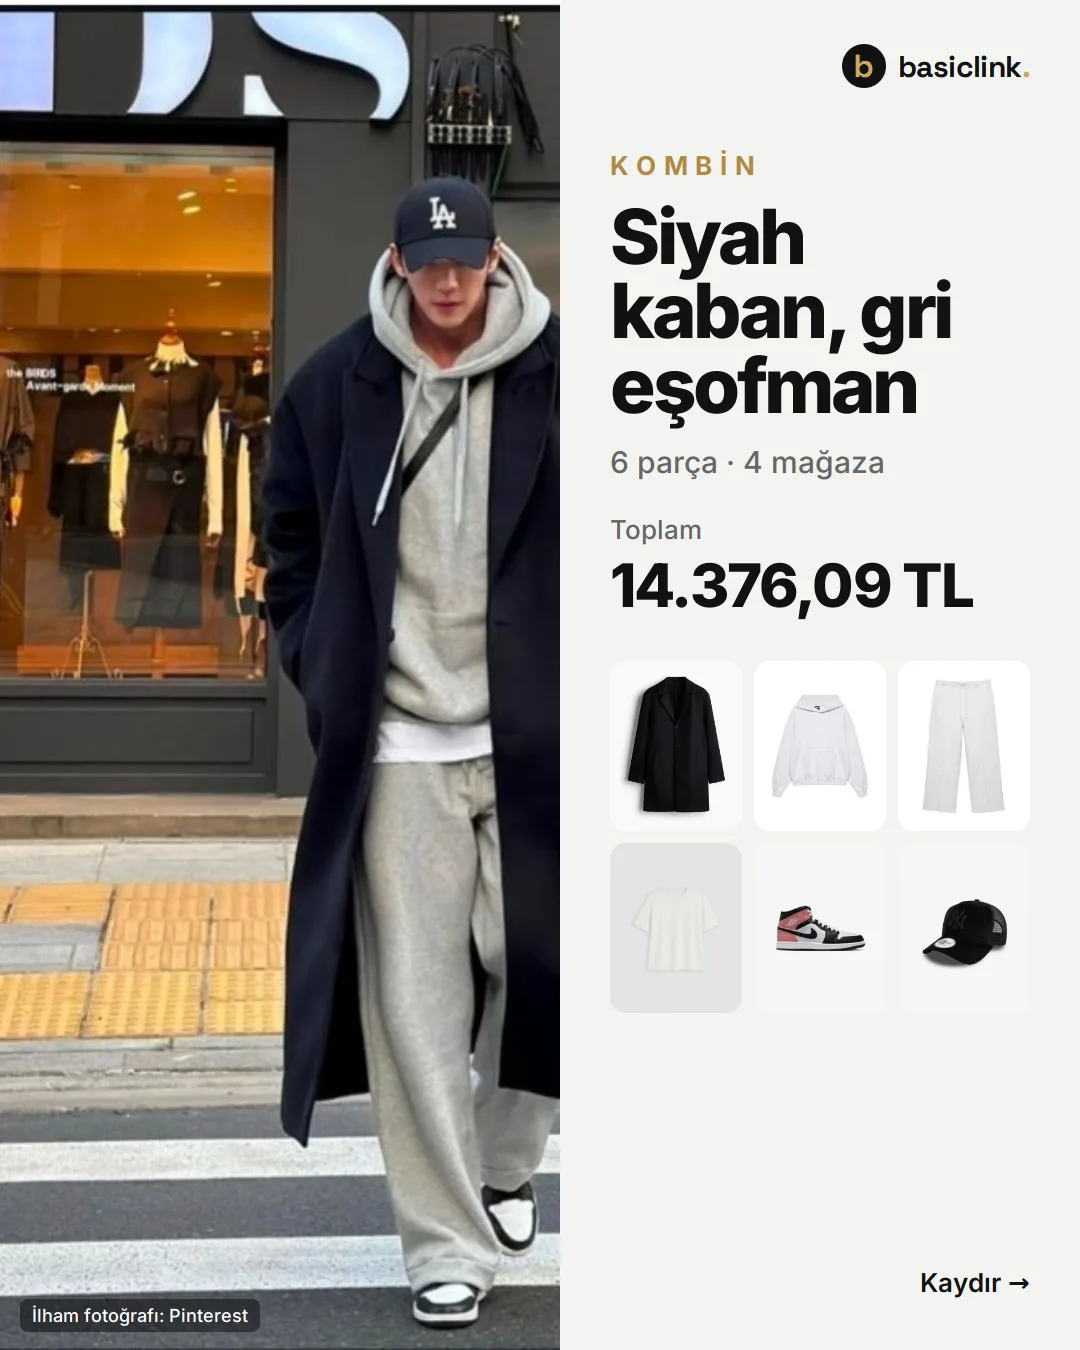
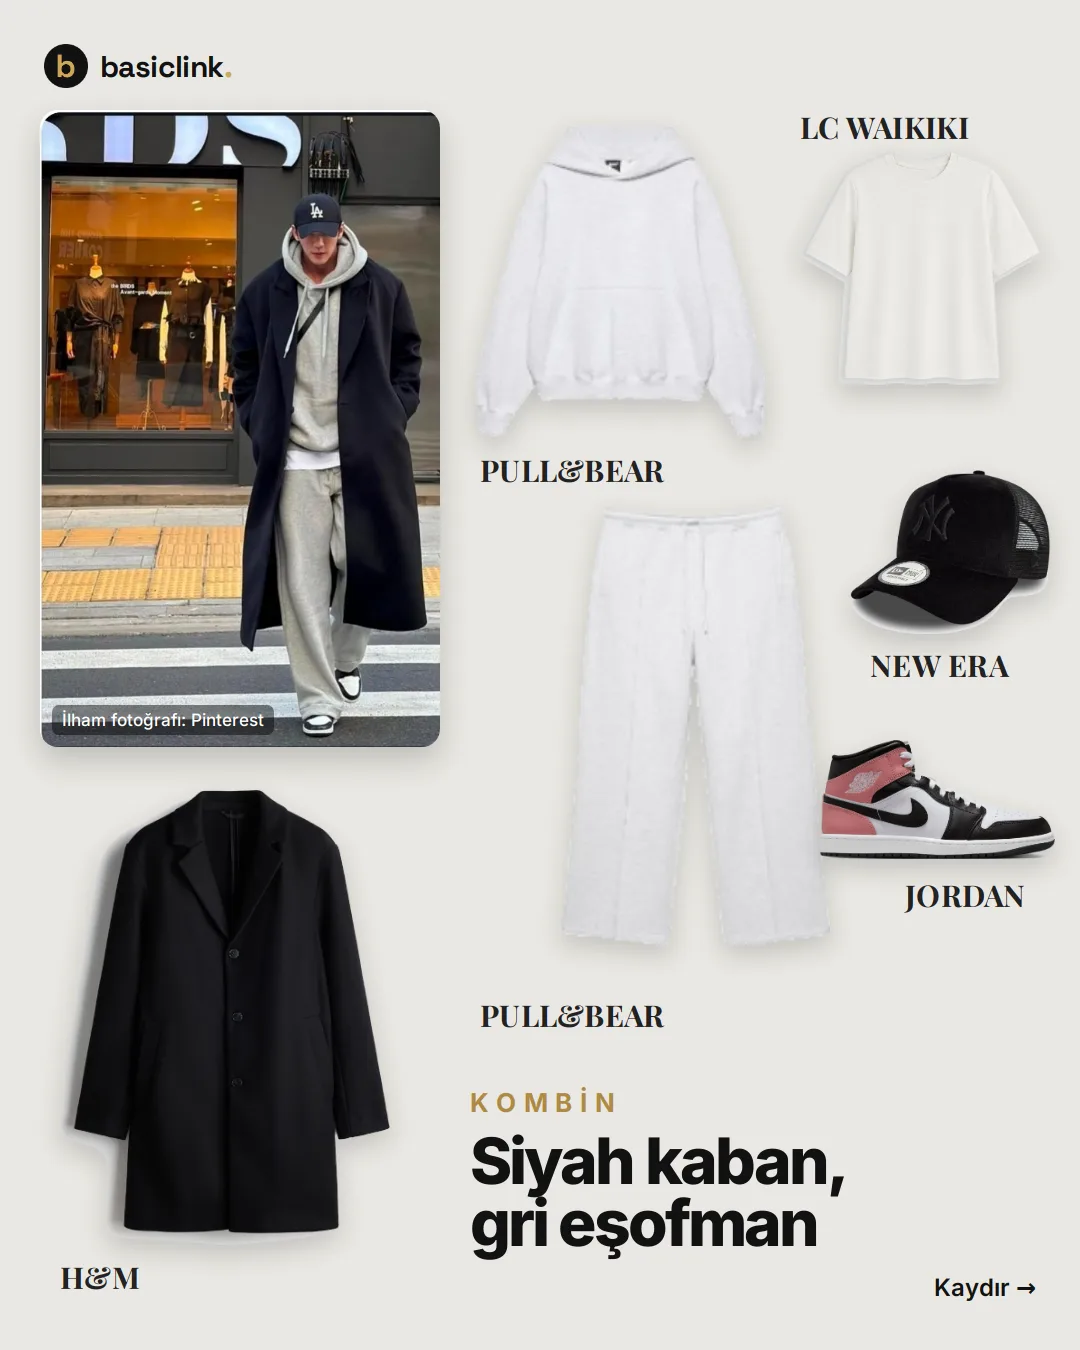
Outfit post: flat-lay cover with the reference look, no totals
kes.mjs cuts product photos out of plain studio backgrounds so the cover
can lay the pieces out with brand labels. Prices stay on the product
slides; the total slide is gone.

Claude-Session: https://claude.ai/code/session_01HdQWbhkBJ8b86f92CSrzw3

diff --git a/scripts/instagram/kombin.js b/scripts/instagram/kombin.js
@@ -12,31 +12,19 @@ const src = (d) => "file://" + path.join(kok, d);
 const lang = (s) => (/[çğıöşüİ]/i.test(s) ? "tr" : "en");
 const logo = "file://" + path.join(__dirname, "logo-b-yuvarlak.png");
 const U = veri.urunler;
-const toplam = Math.round(U.reduce((a, u) => a + u.fiyat, 0) * 100) / 100;
-const etiketToplam = Math.round(U.reduce((a, u) => a + (u.eskiFiyat || u.fiyat), 0) * 100) / 100;
 const saticilar = [...new Set(U.map((u) => u.satici))];
 const ust = `<div class="marka-ust"><img src="${logo}"><span>basiclink<i>.</i></span></div>`;
 const eski = (u) => u.eskiFiyat || u.fiyatNot ? `<span class="eski">${u.eskiFiyat ? `<s>${tl(u.eskiFiyat)}</s>` : ""}${u.eskiFiyat && u.fiyatNot ? " · " : ""}${u.fiyatNot ? k(u.fiyatNot) : ""}</span>` : "";
 const karo = (u, sinif = "") => `<div class="karo ${sinif}" style="background:${u.zemin}"><img src="${src(u.dosya)}"></div>`;
 
+// Cover: the reference look next to the pieces laid out flat, each labelled with its brand. No prices on the cover.
+// Every product carries "kesik" (a cut-out PNG from kes.mjs) and "kapak" {x, y, w, lx, ly}: its place and its label's place.
 const kapak = `<section class="slayt kapak">
-  <img class="ref" src="${src(veri.referans.dosya)}">
-  <div class="kapak-yazi">
-    ${ust}
-    <p class="kicker">${k(veri.ust)}</p>
-    <h1>${k(veri.baslik)}</h1>
-    <p class="alt">${U.length} parça · ${saticilar.length} mağaza</p>
-    <p class="toplam-k">Toplam<br><b>${tl(toplam)}</b></p>
-    <div class="mini">${U.map((u) => karo(u)).join("")}</div>
-    <p class="kaydir">Kaydır →</p>
-  </div>
-  <p class="kredi">İlham fotoğrafı: ${k(veri.referans.kaynak)}</p>
-</section>`;
-const izgara = `<section class="slayt izgara">
-  ${ust}
-  <h2>Parça parça</h2>
-  <div class="grid">${U.map((u) => `<div class="hucre">${karo(u)}<span class="m" lang="${lang(u.marka)}">${k(u.marka)}</span><span class="f">${tl(u.fiyat)}</span></div>`).join("")}</div>
-  <div class="toplam"><span>Kombinin toplamı</span><b>${tl(toplam)}</b>${etiketToplam > toplam ? `<s>${tl(etiketToplam)}</s>` : ""}</div>
+  <div class="marka-ust sol"><img src="${logo}"><span>basiclink<i>.</i></span></div>
+  <figure class="ref"><img src="${src(veri.referans.dosya)}"><figcaption>İlham fotoğrafı: ${k(veri.referans.kaynak)}</figcaption></figure>
+  ${U.map((u) => `<img class="parca" src="${src(u.kesik)}" style="left:${u.kapak.x}px;top:${u.kapak.y}px;width:${u.kapak.w}px">
+  <span class="ad-etiket" lang="${lang(u.marka)}" style="left:${u.kapak.lx}px;top:${u.kapak.ly}px">${k(u.marka)}</span>`).join("")}
+  <div class="kapak-yazi"><p class="kicker">${k(veri.ust)}</p><h1>${k(veri.baslik)}</h1><p class="kaydir">Kaydır →</p></div>
 </section>`;
 const parca = (xs, n) => xs.reduce((a, x, i) => (i % n ? a[a.length - 1].push(x) : a.push([x]), a), []);
 const gruplar = parca(U, 3);
@@ -58,14 +46,14 @@ const son = `<section class="slayt son">
 </section>`;
 const hikaye = `<section class="hikaye">
   ${ust.replace("marka-ust", "marka-ust sol")}
-  <div class="h-ust"><img class="h-ref" src="${src(veri.referans.dosya)}"><div><p class="kicker">${k(veri.ust)}</p><h1>${k(veri.baslik)}</h1><p class="toplam-k">Toplam<br><b>${tl(toplam)}</b></p></div></div>
+  <div class="h-ust"><img class="h-ref" src="${src(veri.referans.dosya)}"><div><p class="kicker">${k(veri.ust)}</p><h1>${k(veri.baslik)}</h1></div></div>
   <div class="h-liste">${U.map((u) => `<div class="h-satir">${karo(u)}<div class="etiket"><span class="m" lang="${lang(u.marka)}">${k(u.marka)}</span><span class="ad">${k(u.ad)}</span>${eski(u)}</div><span class="fiyat">${tl(u.fiyat)}</span></div>`).join("")}</div>
   <div class="yer">Tüm ürün linkleri · buraya dokun</div>
   <p class="h-not">Fiyatlar ${k(veri.tarih)} · ${k(saticilar.join(", "))}. Fiyat ve stok değişebilir. İlham fotoğrafı: ${k(veri.referans.kaynak)}.</p>
 </section>`;
 
 const html = `<!doctype html><html lang="tr"><head><meta charset="utf-8">
-<link href="https://fonts.googleapis.com/css2?family=Inter:wght@400;500;600;700;800&family=Space+Grotesk:wght@700&display=swap" rel="stylesheet">
+<link href="https://fonts.googleapis.com/css2?family=Inter:wght@400;500;600;700;800&family=Space+Grotesk:wght@700&family=Playfair+Display:wght@700&display=swap" rel="stylesheet">
 <style>
 *{box-sizing:border-box;margin:0}
 body{background:#888;font-family:Inter,sans-serif}
@@ -77,28 +65,16 @@ body{background:#888;font-family:Inter,sans-serif}
 .karo{border-radius:22px;display:flex;align-items:center;justify-content:center;overflow:hidden}
 .karo img{width:100%;height:100%;min-width:0;min-height:0;object-fit:contain}
 .kicker{font:700 26px Inter;letter-spacing:.3em;color:#B08A44}
-.kapak .ref{position:absolute;left:0;top:0;width:560px;height:1350px;object-fit:cover}
-.kapak-yazi{position:absolute;left:560px;top:0;right:0;bottom:0;padding:150px 50px 60px 50px}
-.kapak .marka-ust{right:50px}
-.kapak h1{font:800 76px/0.98 Inter;letter-spacing:-.045em;margin-top:18px;text-wrap:balance}
-.kapak .alt{font:500 30px Inter;color:#666;margin-top:22px}
-.toplam-k{font:500 26px Inter;color:#666;margin-top:34px}
-.toplam-k b{display:block;font:800 60px Inter;color:#111;letter-spacing:-.03em;margin-top:4px}
-.kapak .mini{display:grid;grid-template-columns:repeat(3,1fr);gap:12px;margin-top:40px}
-.kapak .mini .karo{height:170px;padding:10px;border-radius:16px}
-.kaydir{position:absolute;right:50px;bottom:52px;font:600 26px Inter}
-.kredi{position:absolute;left:20px;bottom:18px;font:500 18px Inter;color:#fff;background:rgba(0,0,0,.45);padding:6px 12px;border-radius:8px}
-.izgara{padding:120px 56px 56px}
-.izgara h2,.liste h2{font:800 64px Inter;letter-spacing:-.04em}
-.grid{display:grid;grid-template-columns:repeat(3,1fr);gap:22px 18px;margin-top:34px}
-.hucre{display:flex;flex-direction:column;gap:6px}
-.hucre .karo{height:380px;padding:18px}
-.hucre .m{font:600 19px Inter;letter-spacing:.18em;text-transform:uppercase;color:#888;margin-top:6px}
-.hucre .f{font:800 32px Inter;letter-spacing:-.02em}
-.toplam{position:absolute;left:56px;right:56px;bottom:56px;background:#111;color:#fff;border-radius:22px;padding:26px 34px;display:flex;align-items:baseline;gap:22px}
-.toplam span{font:600 30px Inter;flex:1}
-.toplam b{font:800 52px Inter;color:#CFA65A;letter-spacing:-.03em}
-.toplam s{font:500 26px Inter;color:#888}
+.kapak{background:#E9E7E2}
+.marka-ust.sol{left:44px;right:auto}
+.ref{position:absolute;left:40px;top:110px;width:400px;height:637px;margin:0;border-radius:18px;overflow:hidden;box-shadow:0 14px 30px rgba(0,0,0,.18)}
+.ref img{width:100%;height:100%;object-fit:cover}
+.ref figcaption{position:absolute;left:12px;bottom:12px;font:500 17px Inter;color:#fff;background:rgba(0,0,0,.45);padding:5px 10px;border-radius:7px}
+.parca{position:absolute;filter:drop-shadow(0 10px 12px rgba(0,0,0,.16))}
+.ad-etiket{position:absolute;font:700 30px/1 "Playfair Display";letter-spacing:.01em;color:#222;text-transform:uppercase}
+.kapak-yazi{position:absolute;left:470px;right:44px;bottom:48px}
+.kapak h1{font:800 64px/0.98 Inter;letter-spacing:-.045em;margin-top:12px;text-wrap:balance}
+.kaydir{font:600 24px Inter;margin-top:18px;text-align:right}
 .liste{padding:130px 56px 56px;display:flex;flex-direction:column;gap:28px}
 .sayfa{position:absolute;left:60px;top:52px;font:600 22px Inter;color:#888}
 .satir{display:flex;gap:34px;align-items:center;height:370px}
@@ -119,11 +95,11 @@ body{background:#888;font-family:Inter,sans-serif}
 .son .hikaye-not{font:700 40px Inter;color:#111;background:#CFA65A;border-radius:999px;padding:22px 48px;margin-bottom:34px}
 .son .not{font:400 24px Inter;color:#888;margin-top:60px;max-width:800px}
 .hikaye{width:1080px;height:1920px;position:relative;background:#F4F4F2;color:#111;padding:150px 56px 150px;display:flex;flex-direction:column}
-.marka-ust.sol{left:56px;right:auto;top:150px;position:relative;margin-bottom:24px}
+.hikaye .marka-ust.sol{left:56px;right:auto;top:150px;position:relative;margin-bottom:24px}
 .h-ust{display:flex;gap:34px;align-items:center}
 .h-ref{width:300px;height:420px;object-fit:cover;border-radius:22px;flex:none}
 .hikaye h1{font:800 68px/1 Inter;letter-spacing:-.04em;margin-top:12px;text-wrap:balance}
-.marka-ust.sol{position:static}
+.hikaye .marka-ust.sol{position:static}
 .h-liste{flex:1;display:flex;flex-direction:column;justify-content:space-between;margin-top:30px}
 .h-satir{display:flex;align-items:center;gap:24px;height:150px}
 .h-satir .karo{width:150px;height:150px;padding:10px;border-radius:16px;flex:none}
@@ -131,7 +107,7 @@ body{background:#888;font-family:Inter,sans-serif}
 .h-satir .fiyat{font:800 36px Inter;letter-spacing:-.02em;white-space:nowrap}
 .yer{margin-top:26px;height:120px;border:3px dashed #CFA65A;border-radius:28px;display:grid;place-items:center;font:700 30px Inter;color:#B08A44;flex:none}
 .h-not{font:400 20px Inter;color:#888;margin-top:18px}
-</style></head><body>${kapak}${izgara}${gruplar.map((g, i) => liste(g, `${i + 1}/${gruplar.length}`)).join("")}${son}${hikaye}</body></html>`;
+</style></head><body>${kapak}${gruplar.map((g, i) => liste(g, `${i + 1}/${gruplar.length}`)).join("")}${son}${hikaye}</body></html>`;
 fs.writeFileSync(path.join(kok, "post.html"), html);
 (async () => {
   const b = await chromium.launch();
@@ -143,5 +119,5 @@ fs.writeFileSync(path.join(kok, "post.html"), html);
   for (const [i, el] of s.entries()) await el.screenshot({ path: path.join(kok, "out", `${i + 1}.png`) });
   await (await p.$(".hikaye")).screenshot({ path: path.join(kok, "out", "hikaye.png") });
   await b.close();
-  console.log(s.length, "slayt + hikaye · toplam", tl(toplam));
+  console.log(s.length, "slayt + hikaye");
 })();

diff --git a/src/basiclink/siyah-kaban-gri-esofman.md b/src/basiclink/siyah-kaban-gri-esofman.md
@@ -1,9 +1,9 @@
 ---
 title: "Kombin: siyah kaban, gri eşofman"
 date: 2026-10-20T12:00:00
-ozet: "Uzun siyah kaban, gri eşofman takımı ve Jordan 1 Mid ile şehir kombini. 6 parça, 4 mağaza, toplam 14.376 TL. Model kodları, fiyatlar ve linkler burada."
+ozet: "Uzun siyah kaban, gri eşofman takımı ve Jordan 1 Mid ile şehir kombini. 6 parça, 4 mağaza. Model kodları, fiyatlar ve linkler burada."
 kapak: /img/insta/siyah-kaban-gri-esofman/1.webp
-slaytlar: 5
+slaytlar: 4
 kontrol: 2026-10-20
 satici: "H&M, Pull&Bear, LC Waikiki, Sanal Çadır"
 urunler:
@@ -52,6 +52,6 @@ urunler:
     gorsel: /img/insta/urun/sanalcadir-133-60595360.webp
     link: https://www.sanalcadir.com/new-era-9forty-new-york-yankees-velour-kadin-siyah-sapka-133-60595360/
 ---
-Uzun siyah kaban, eşofmanı sokakta da giyilir hâle getiriyor. Gri sweatshirt ve geniş paça jogger aynı takımdan; altına ekru kalın bir tişört, ayağa siyah-beyaz-pembe Jordan 1 Mid ve siyah bir şapka yeterli. Etiket fiyatlarıyla toplam 17.325 TL olan kombin, bugünkü indirimlerle 14.376 TL.
+Uzun siyah kaban, eşofmanı sokakta da giyilir hâle getiriyor. Gri sweatshirt ve geniş paça jogger aynı takımdan; altına ekru kalın bir tişört, ayağa siyah-beyaz-pembe Jordan 1 Mid ve siyah bir şapka yeterli.
 
 Pull&Bear'da aynı anda 2 ürün alana %5, 3 ve üzeri ürüne %10 ek indirim var; yukarıdaki fiyatlara dahil değil. H&M kabanındaki %20 sepette uygulanıyor. Sanal Çadır'daki New Era şapka sitede kadın kategorisinde listeleniyor; ayarlanabilir tek beden. Kombin fikrinin ilham fotoğrafı Pinterest'ten.
